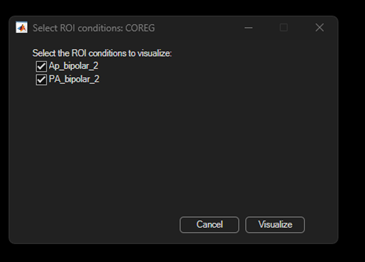
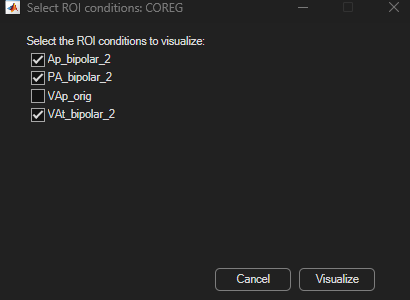
Doc update

Changed region(s): [[0.0, 0.0, 1.0, 1.0], [0.0603, 0.1832, 0.4822, 0.4275]]

diff --git a/MIA_Documentation.md b/MIA_Documentation.md
@@ -8,8 +8,8 @@ Brainstorm menu:
 `Run -> Add process icon -> Standardize -> MIA: Concatenate Channels`
 
 <p float="left">
-  <img src="Media/2 Grand subject.png" height="300" />
-  <img src="Media/2_1.png" height="300" />
+  <img src="Media/2 Grand subject.png" height="600" />
+  <img src="Media/2_1.png" height="200" />
 </p>
 
 It contains 2 input fields:
@@ -34,7 +34,7 @@ This process calculates time/frequency representations of Brainstorm data using 
 Brainstorm menu: `Frequency -> MIA: Time-frequency (Morlet by band + 1/f norm)`
 
 <p float="left">
-  <img src="Media/3 Calculating time frequency.png" height="300" />
+  <img src="Media/3 Calculating time frequency.png" height="600" />
   <img src="Media/3_1 .png" height="300" />
 </p>
 
@@ -62,7 +62,7 @@ Brainstorm menu:
 `Run -> Add process icon -> Test -> MIA: Convert from BST to MIA`
 
 <p float="left">
-  <img src="Media/4 Converting to MIA.png" height="300" />
+  <img src="Media/4 Converting to MIA.png" height="600" />
   <img src="Media/4_1.png" height="300" />
 </p>
 
@@ -101,13 +101,33 @@ Brainstorm menu:
 `Run -> Add process icon -> Test -> MIA: Visualize Averages`
 
 <p float="left">
-  <img src="Media/5 Visualizing avg.png" height="200" />
+  <img src="Media/5 Visualizing avg.png" height="600" />
   <img src="Media/5_1.png" height="200" />
-  <img src="Media/5_2.png" height="200" />
-  <img src="Media/5_3.png" height="200" />
-  <img src="Media/5_4.png" height="200" />
-  <img src="Media/5_5.png" height="200" />
+  <img src="Media/5_2.png" height="300" />
 </p>
+
+
+## Individual condition visualization:
+<div style="display: flex; align-items: flex-start; gap: 20px;">
+  <img src="Media/5_3 Individual condition.png" height="700" />
+  <img src="Media/table legend.png" height="200" />
+</div>
+<br>
+<div>
+  <img src="Media/5_3_1.png" width="700" />
+</div>
+
+## Group comparison visualization:
+<div style="display: flex; align-items: flex-start; gap: 20px;">
+  <img src="Media/5_4 group_avg.png" height="700" />
+  <img src="Media/table legend.png" height="200" />
+</div>
+<br>
+<div>
+  <img src="Media/5_4_1.png" width="700" />
+</div>
+
+
 
 ## Current inputs
 
